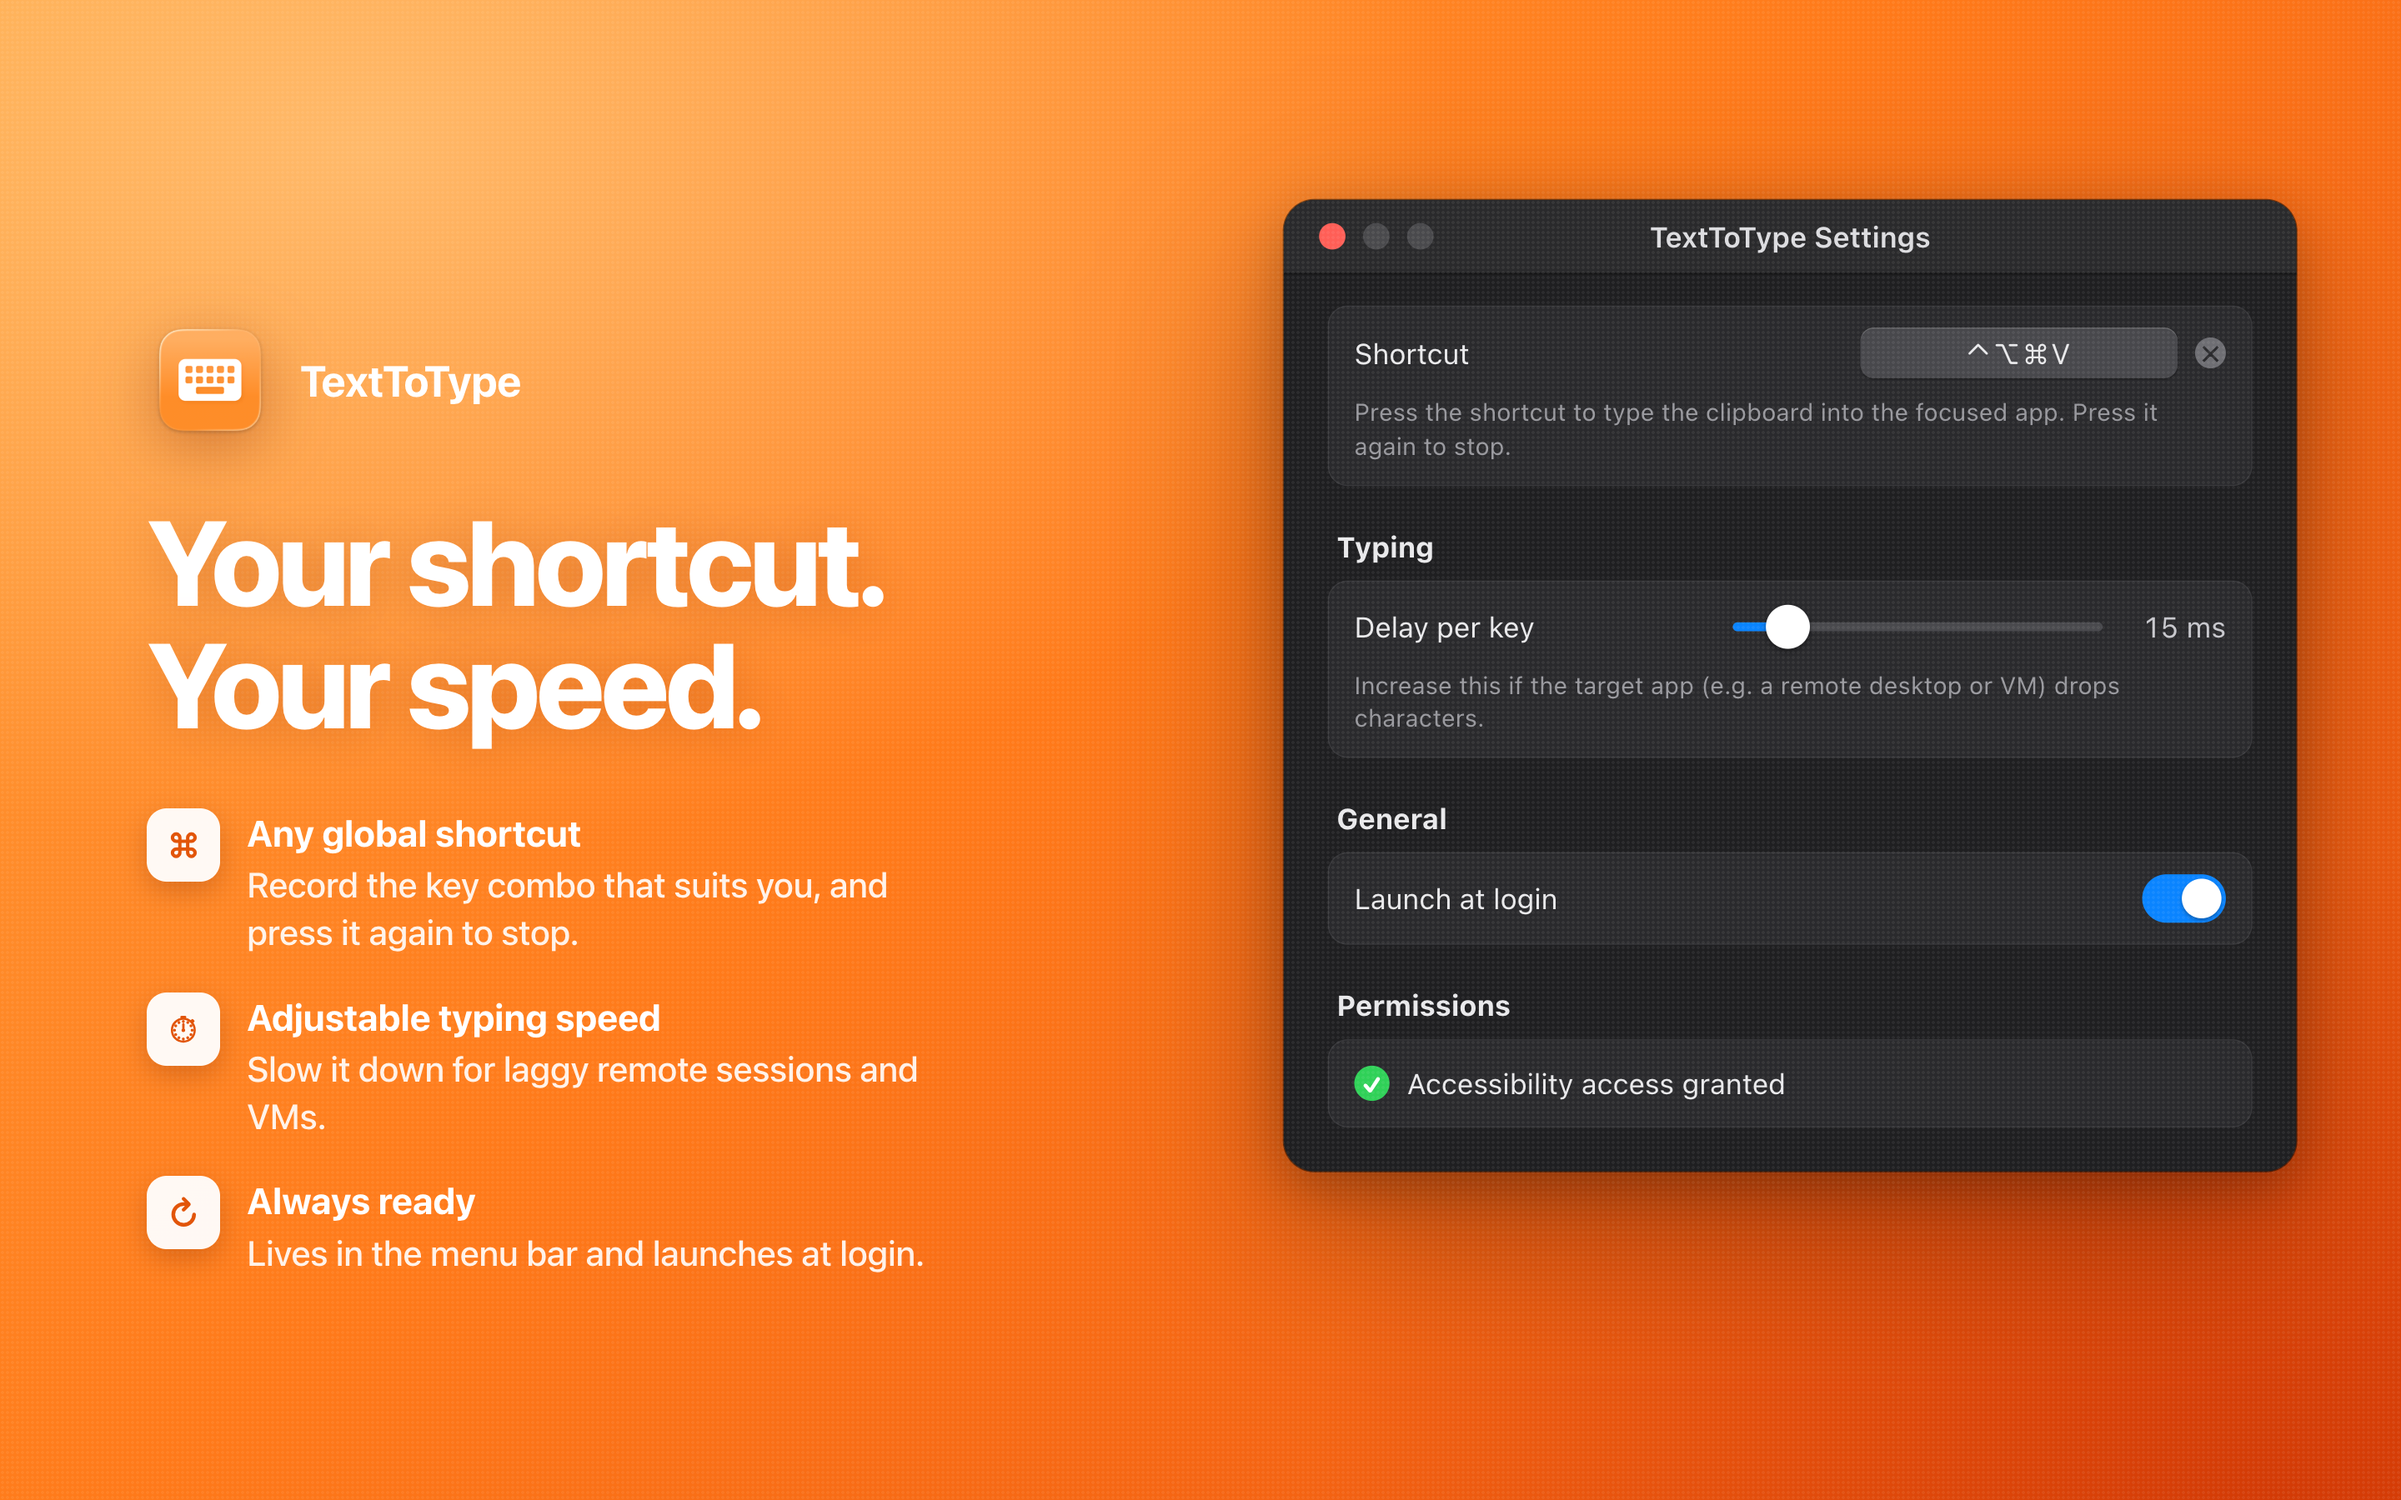
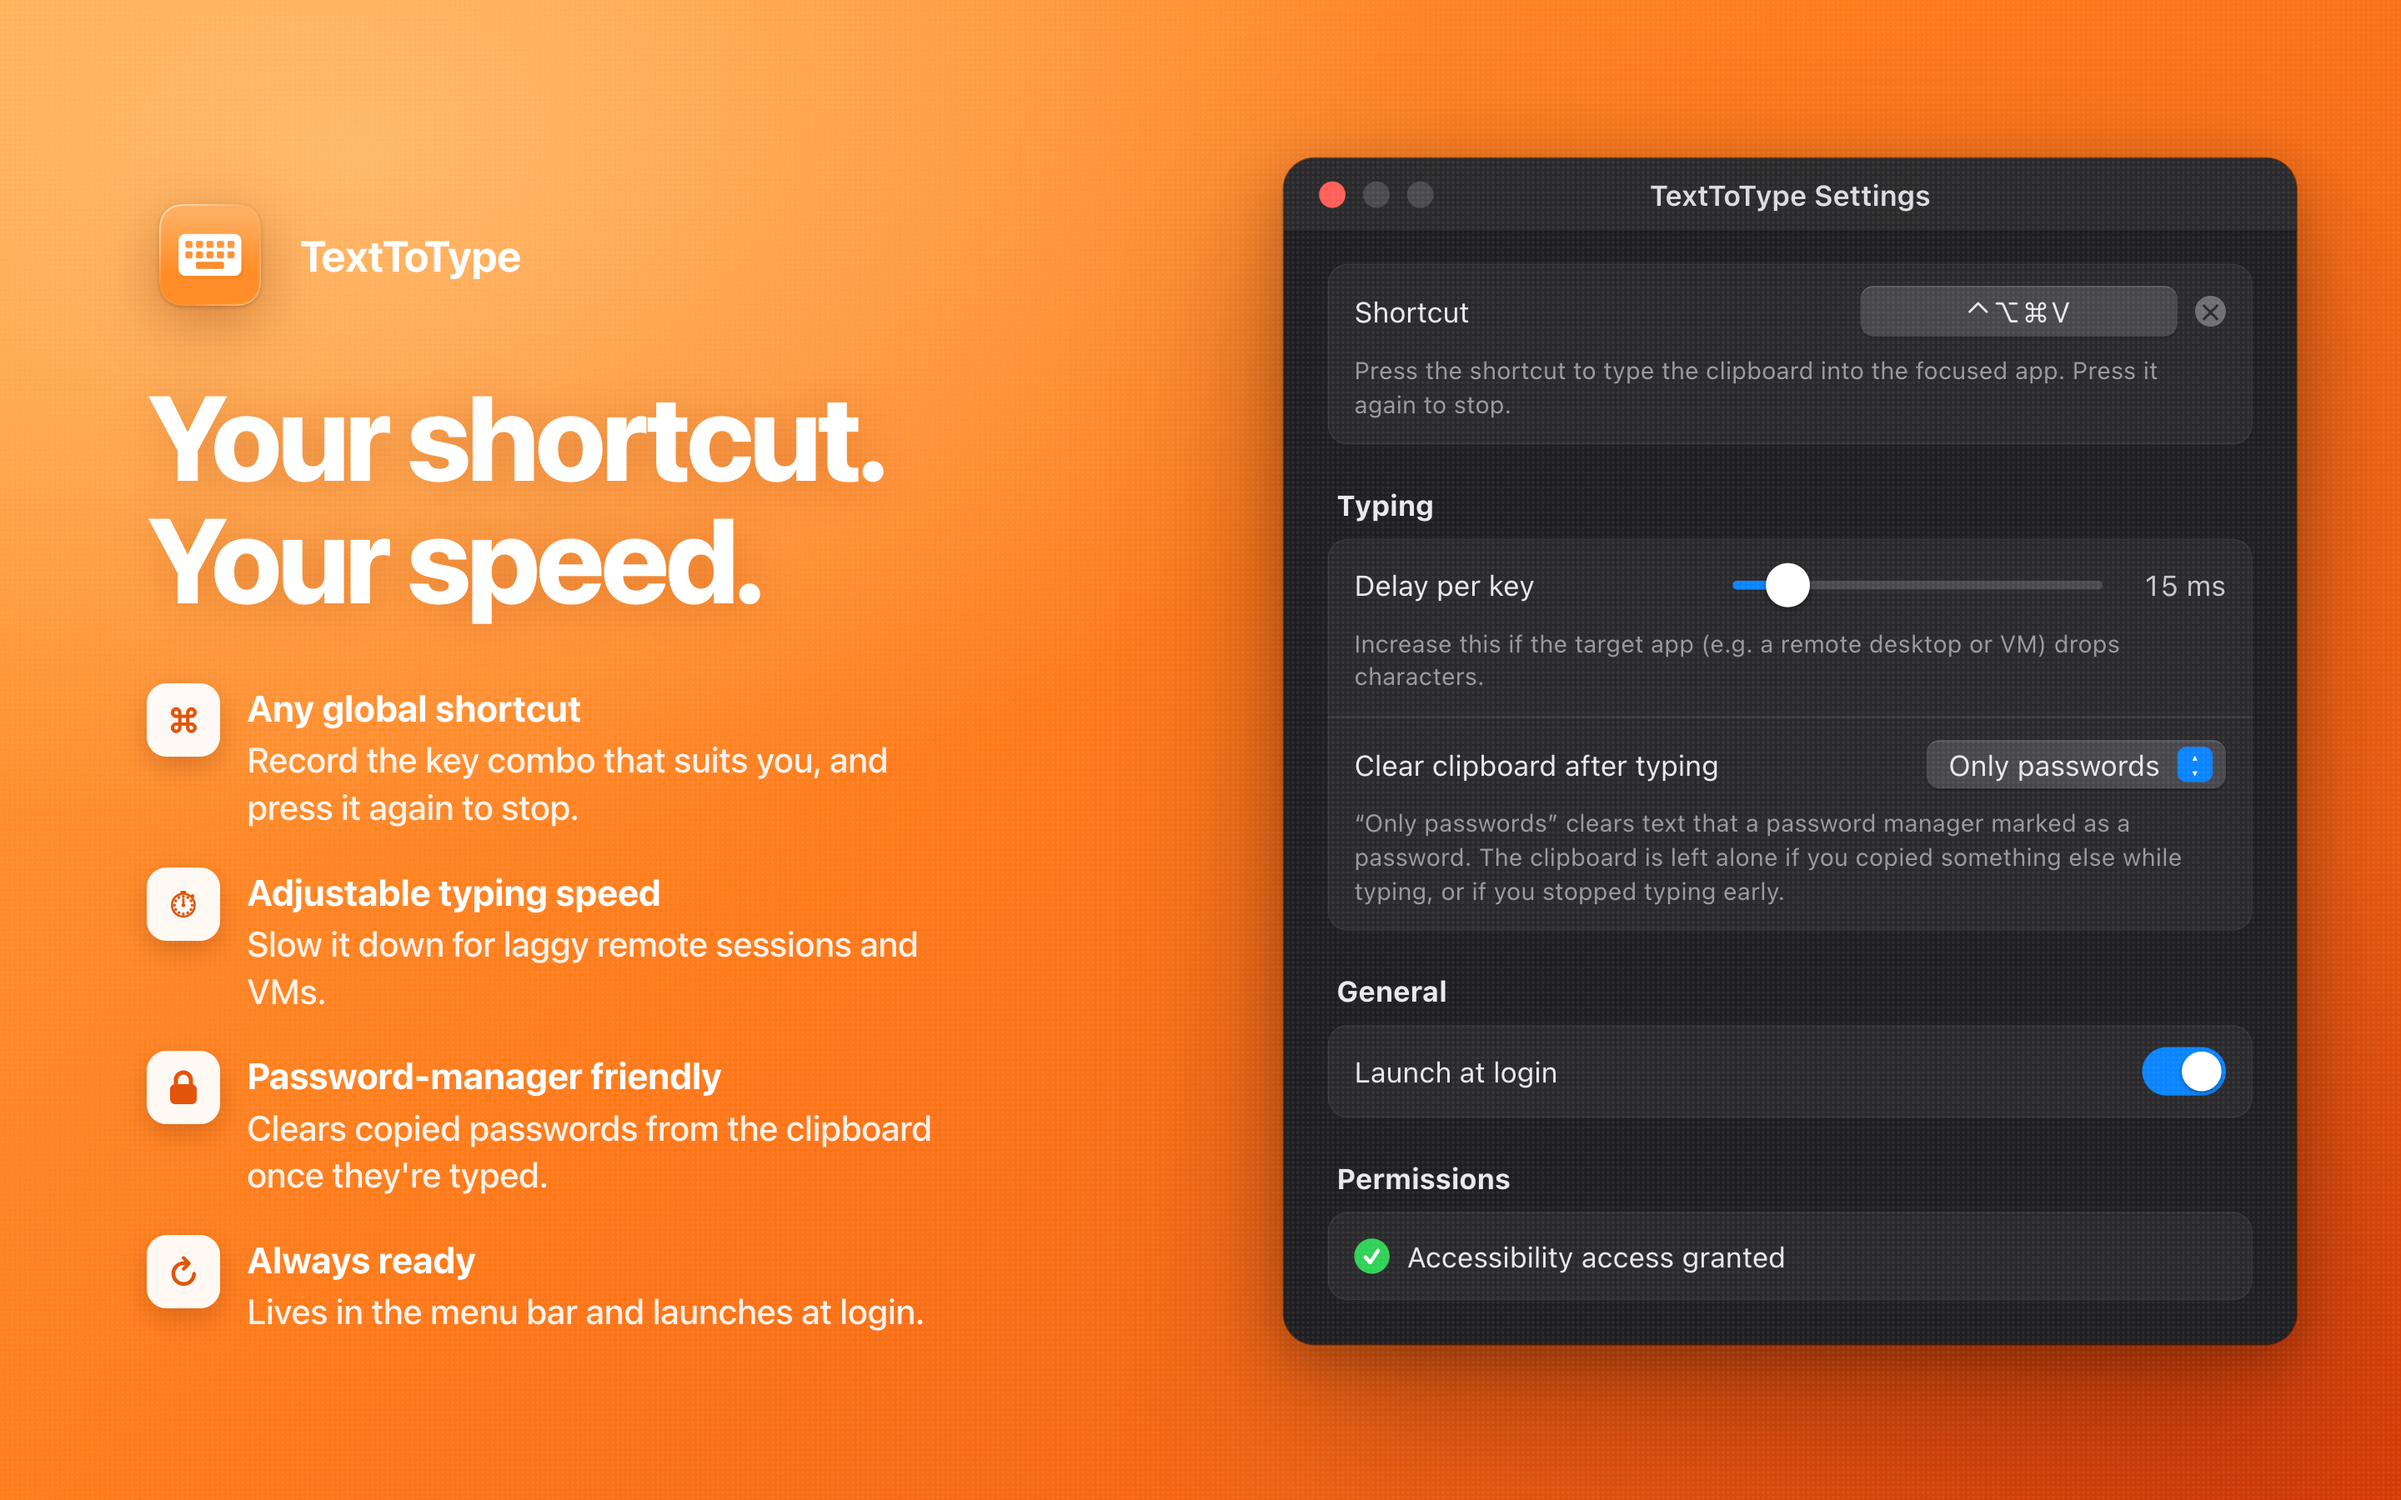
Show clipboard clearing in the settings screenshot
Add the "Clear clipboard after typing" picker to the settings mockup
and a password-manager bullet to the copy, then re-render
02-settings.png. List clipboard clearing in the AppStore.md table.

diff --git a/AppStore/screenshot-src/02-settings.html b/AppStore/screenshot-src/02-settings.html
@@ -5,7 +5,7 @@
 <title>TextToType: Settings</title>
 <link rel="stylesheet" href="style.css">
 <style>
-  .copy { top: 190px; }
+  .copy { top: 115px; }
   h1 { font-size: 72px; }
 
   .features { list-style: none; margin-top: 38px; display: grid; gap: 22px; }
@@ -20,7 +20,7 @@
 
   /* Settings window, drawn at its real size and scaled up for legibility */
   .settings {
-    left: 770px; top: 120px; width: 460px;
+    left: 770px; top: 95px; width: 460px;
     transform: scale(1.32); transform-origin: top left;
     background: #1f1f21;
   }
@@ -51,6 +51,16 @@
   .track .knob { position: absolute; left: 15%; top: 50%; width: 20px; height: 20px; margin: -10px 0 0 -10px; border-radius: 50%; background: #fff; box-shadow: 0 1px 3px rgba(0,0,0,.5); }
   .ms { width: 44px; text-align: right; color: #c7c7cc; font-variant-numeric: tabular-nums; }
 
+  .popup {
+    display: flex; align-items: center; gap: 8px; padding: 3px 6px 3px 10px; border-radius: 6px;
+    background: #48484c; box-shadow: inset 0 .5px 0 rgba(255,255,255,.18), 0 .5px 1px rgba(0,0,0,.4);
+  }
+  .popup .chev {
+    width: 16px; height: 16px; border-radius: 4px; background: #0a84ff; color: #fff;
+    font-size: 8px; line-height: 7px; display: grid; place-items: center; text-align: center;
+  }
+  .group .caption + .row { border-top: 1px solid rgba(255,255,255,.07); }
+
   .toggle { width: 38px; height: 22px; border-radius: 11px; background: #0a84ff; position: relative; }
   .toggle::after { content: ""; position: absolute; right: 2px; top: 2px; width: 18px; height: 18px; border-radius: 50%; background: #fff; box-shadow: 0 1px 2px rgba(0,0,0,.35); }
 
@@ -66,6 +76,7 @@
     <ul class="features">
       <li><div class="ic">⌘</div><div><b>Any global shortcut</b><span>Record the key combo that suits you, and press it again to stop.</span></div></li>
       <li><div class="ic">⏱</div><div><b>Adjustable typing speed</b><span>Slow it down for laggy remote sessions and VMs.</span></div></li>
+      <li><div class="ic"><svg width="20" height="22" viewBox="0 0 20 22" aria-hidden="true"><rect x="2" y="9" width="16" height="12" rx="3" fill="currentColor"/><path d="M5.5 9V6.5a4.5 4.5 0 0 1 9 0V9" fill="none" stroke="currentColor" stroke-width="2.6"/></svg></div><div><b>Password-manager friendly</b><span>Clears copied passwords from the clipboard once they're typed.</span></div></li>
       <li><div class="ic">↻</div><div><b>Always ready</b><span>Lives in the menu bar and launches at login.</span></div></li>
     </ul>
   </div>
@@ -88,6 +99,11 @@
           <div class="slider"><div class="track"><div class="fill"></div><div class="knob"></div></div><span class="ms">15 ms</span></div>
         </div>
         <div class="caption">Increase this if the target app (e.g. a remote desktop or VM) drops characters.</div>
+        <div class="row with-caption">
+          <span>Clear clipboard after typing</span>
+          <div class="popup">Only passwords<div class="chev">▴<br>▾</div></div>
+        </div>
+        <div class="caption">“Only passwords” clears text that a password manager marked as a password. The clipboard is left alone if you copied something else while typing, or if you stopped typing early.</div>
       </div>
 
       <div class="section-title">General</div>

diff --git a/AppStore/AppStore.md b/AppStore/AppStore.md
@@ -147,7 +147,7 @@ macOS screenshots must be 16:10. Files in `AppStore/Screenshots/` are 2880 × 18
 | File | Shows |
 | --- | --- |
 | `01-type-anywhere.png` | Hero image: menu bar menu and text being typed into a remote session |
-| `02-settings.png` | Settings: shortcut, typing speed, launch at login |
+| `02-settings.png` | Settings: shortcut, typing speed, clipboard clearing, launch at login |
 
 The sources are HTML files in `AppStore/screenshot-src/`. To re-render after editing one, run this from the project folder:
 
